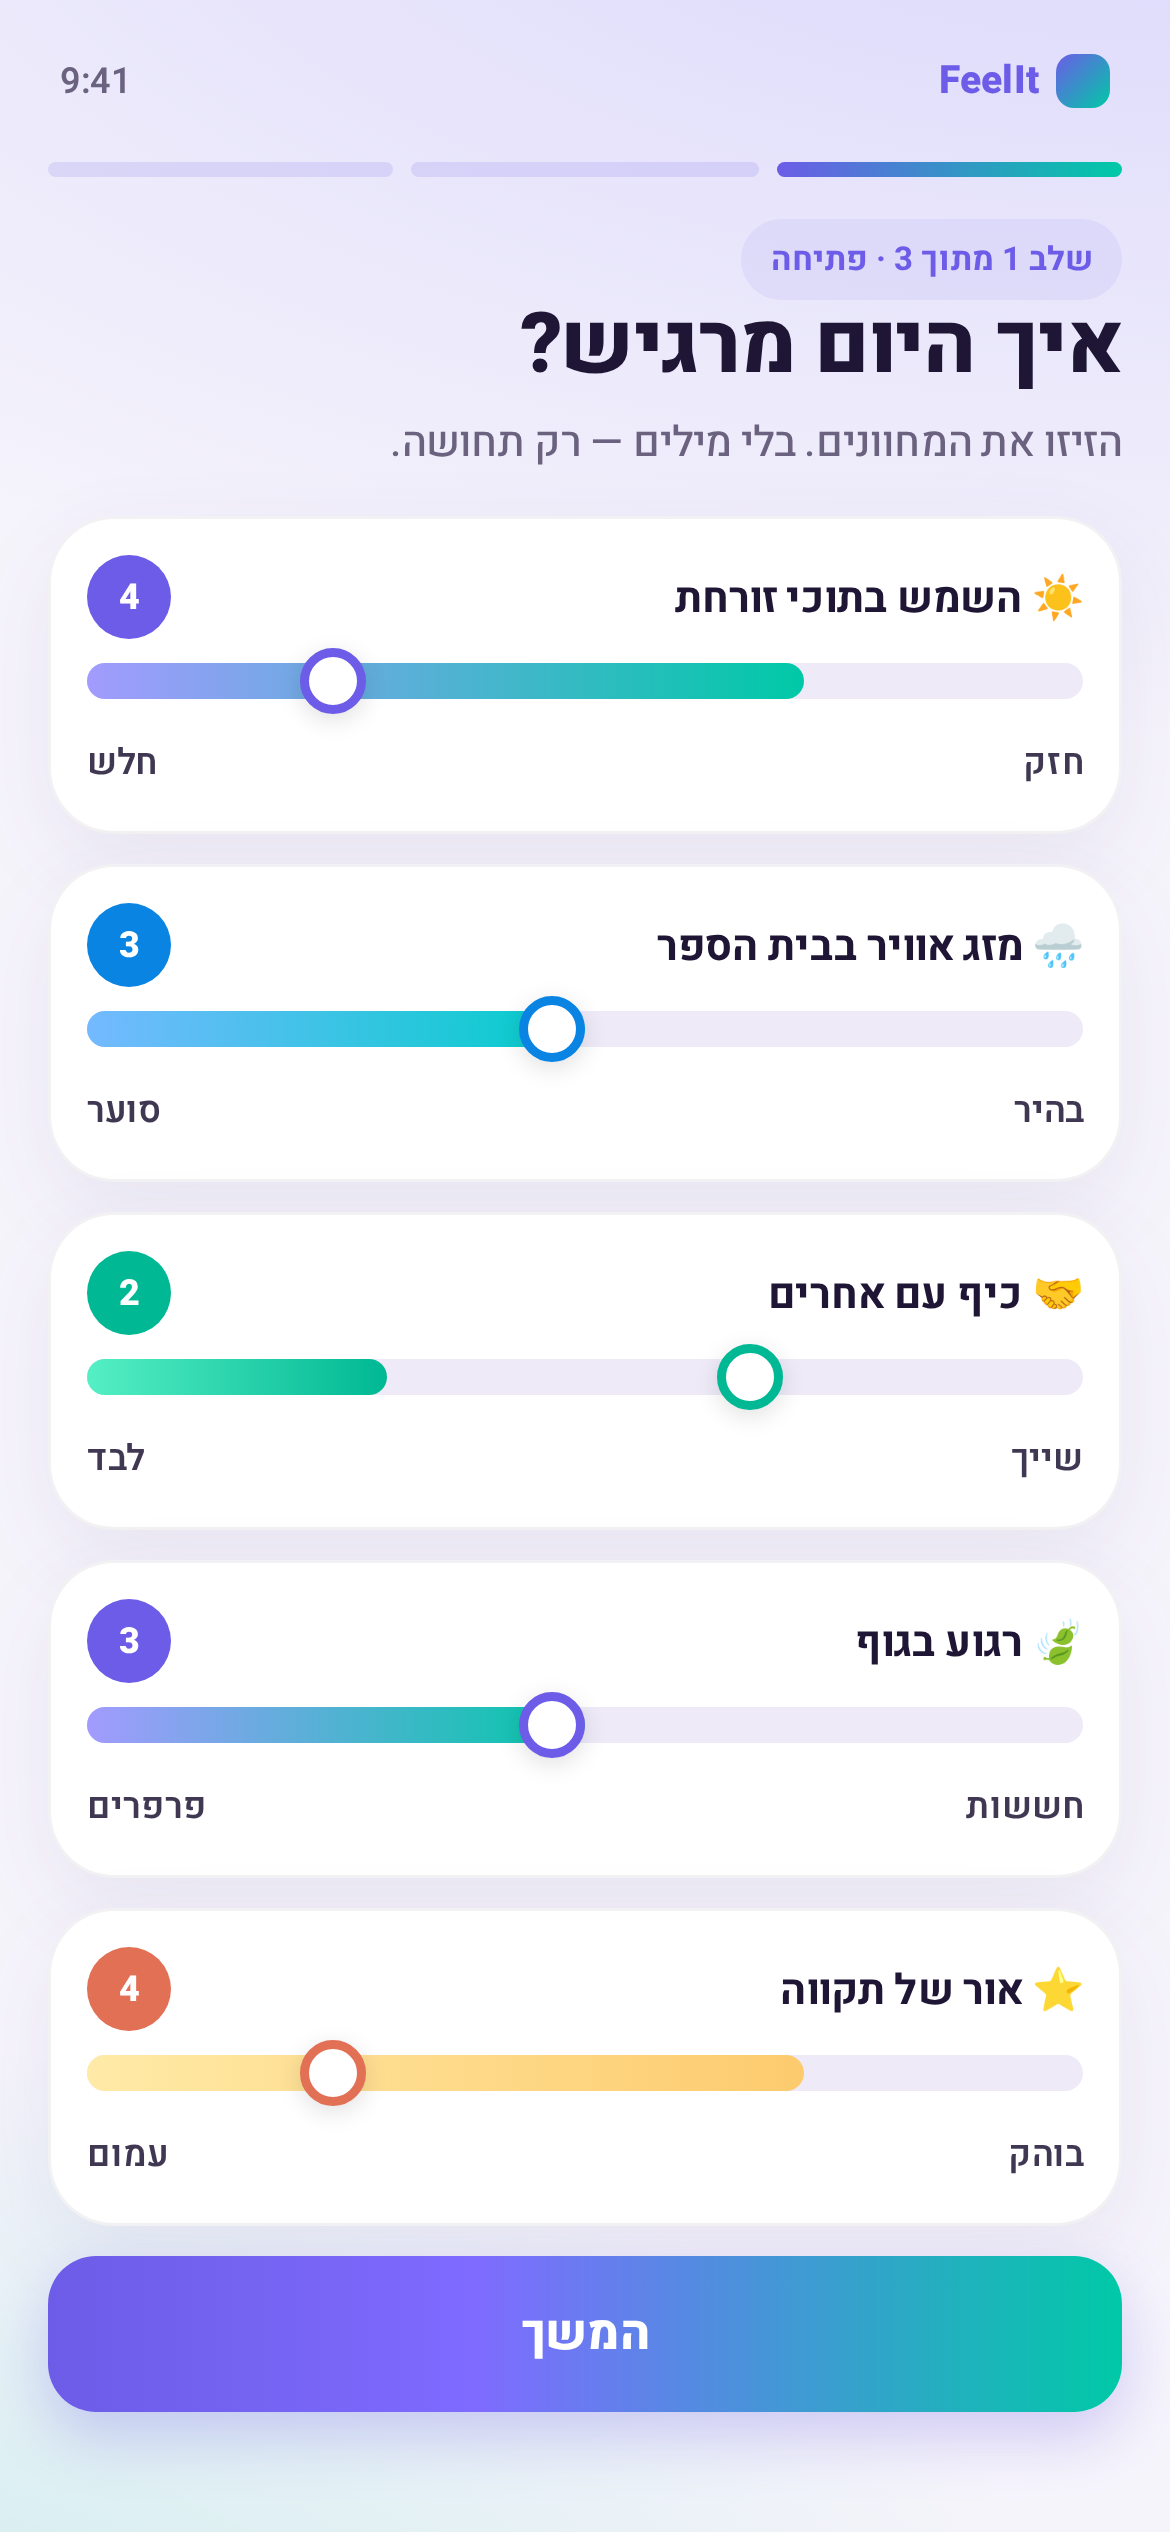
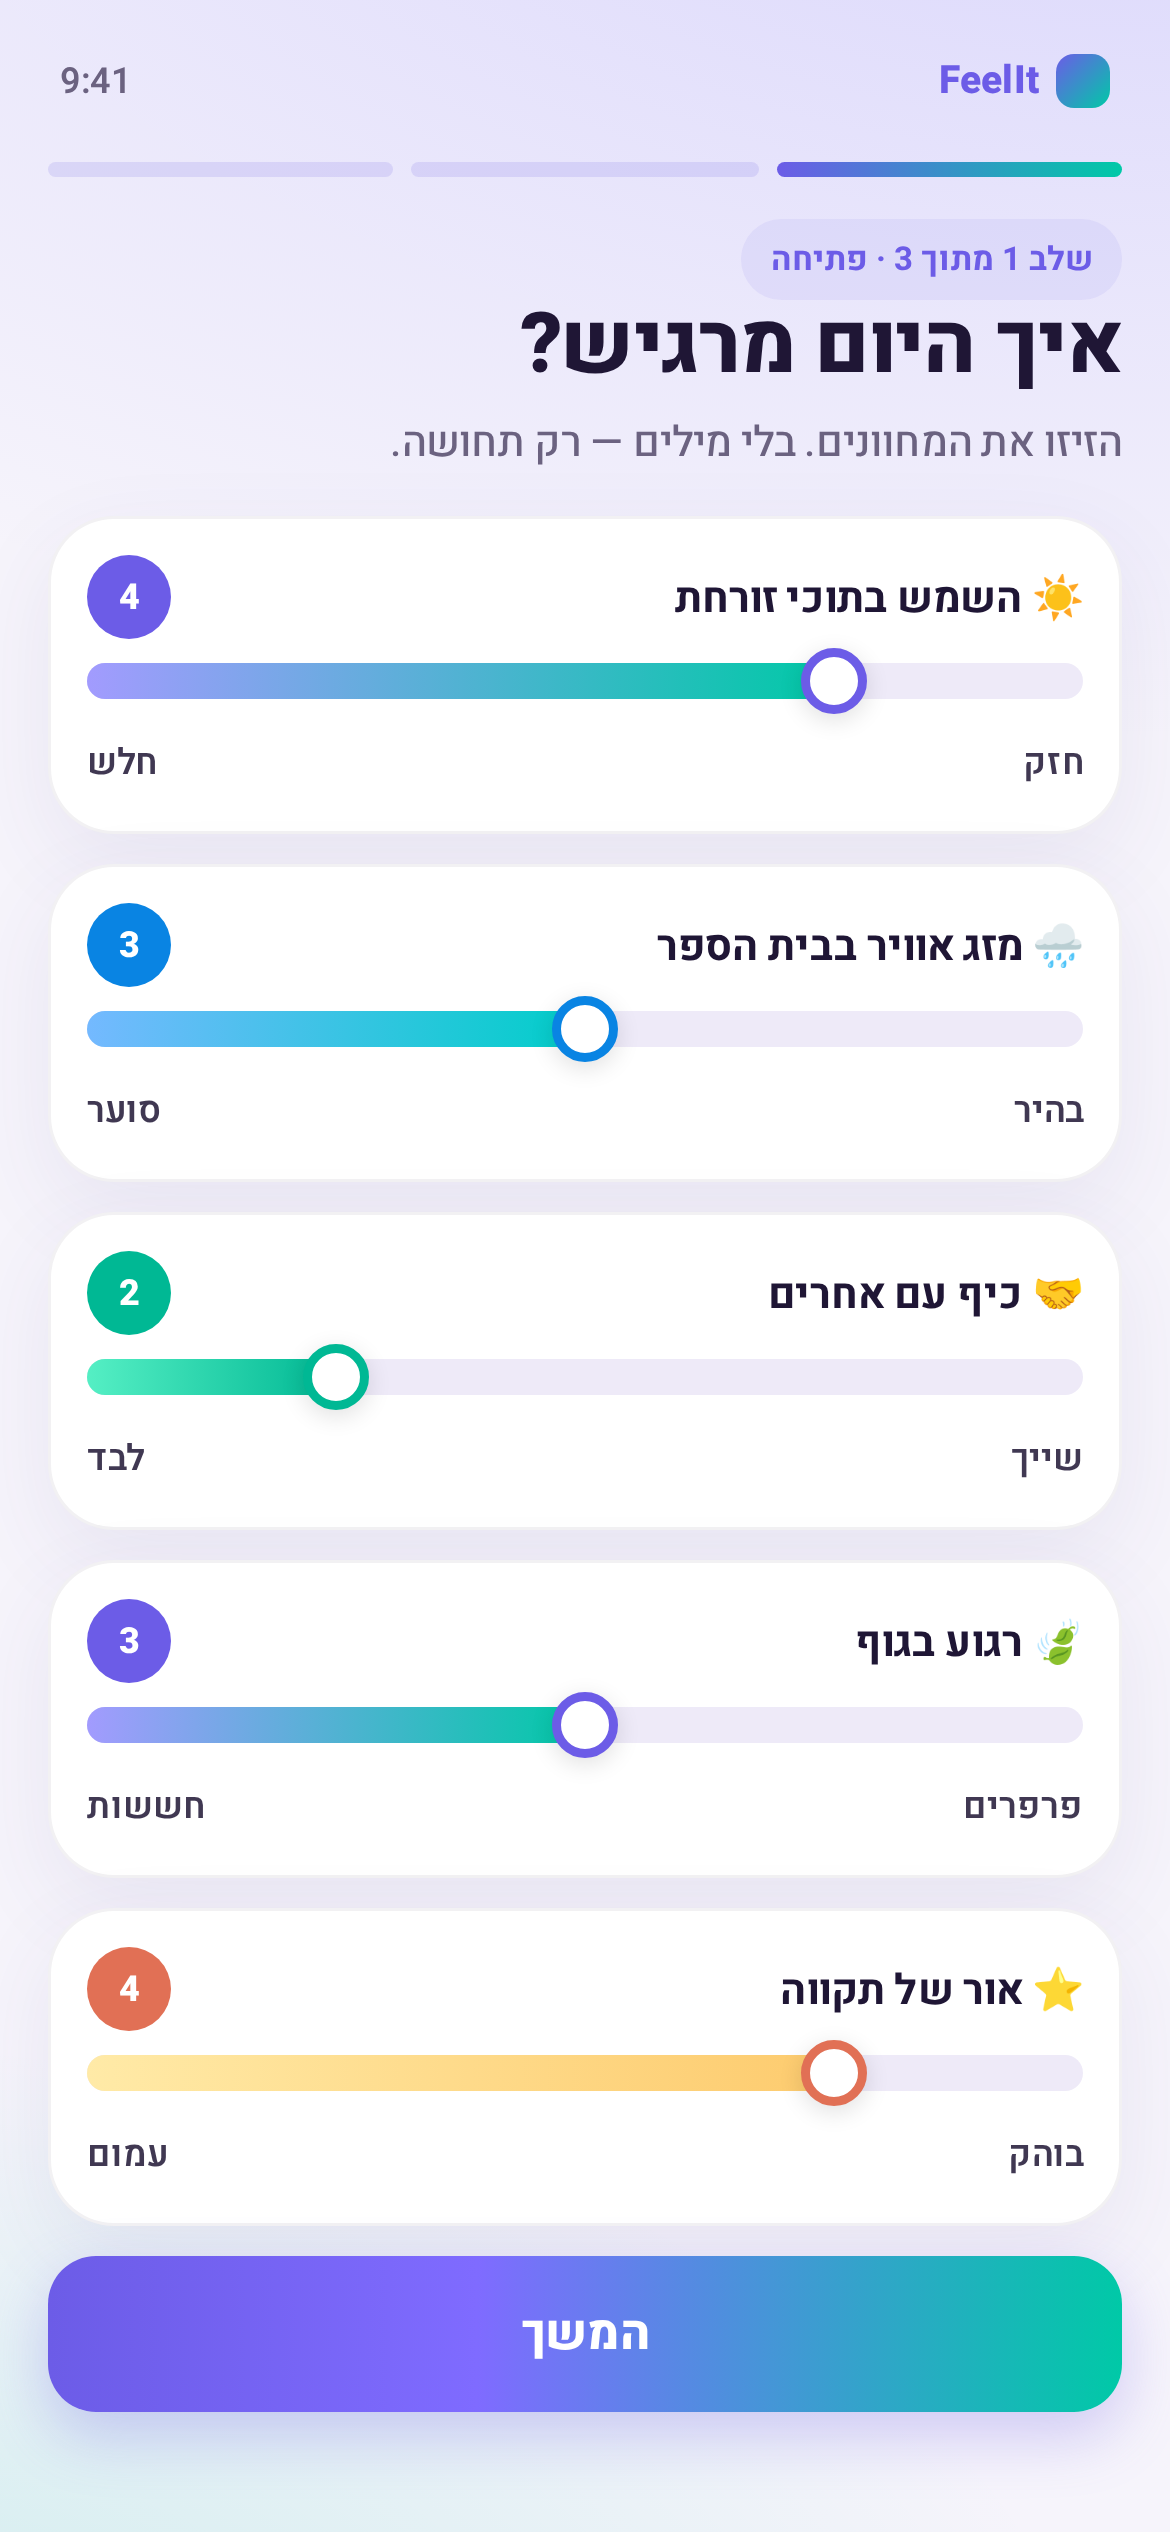
Update welcome-screen.png + fix Calm in body lever endpoints
- Replace mocks/welcome-screen.png
- Fix lever: Calm in body — Left (1) = Worries, Right (5) = Butterflies

diff --git a/README.md b/README.md
@@ -35,7 +35,7 @@ Five feeling levers (1–5 scale). Each lever has **negative pole on left**, **p
 | Sunshine inside me is shining | Weak | Strong |
 | School weather | Stormy | Bright |
 | Fun with others | Alone | Belonging |
-| Calm in body | Butterflies | Worries |
+| Calm in body | Worries | Butterflies |
 | Hope light | Dim | Bright |
 
 ![Welcome — Step 1](mocks/welcome-screen.png)
